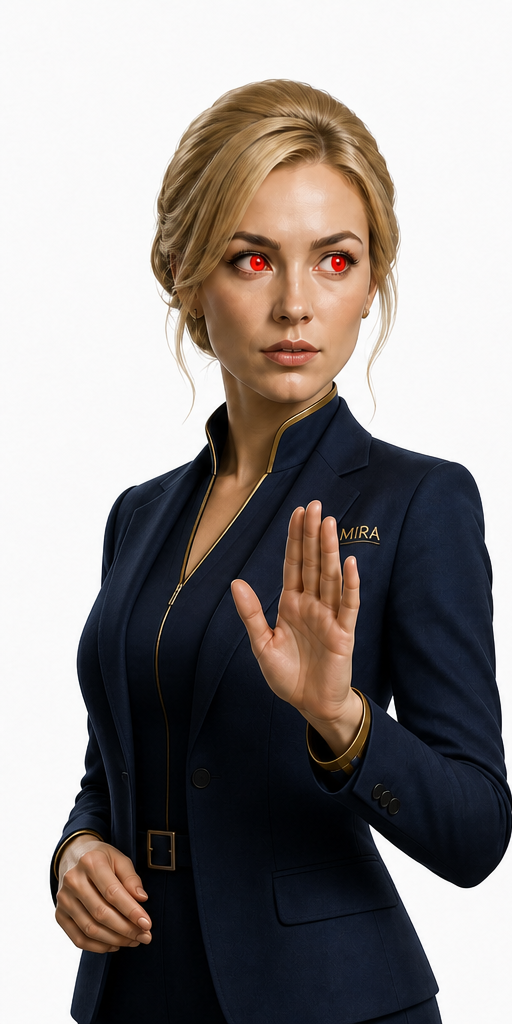
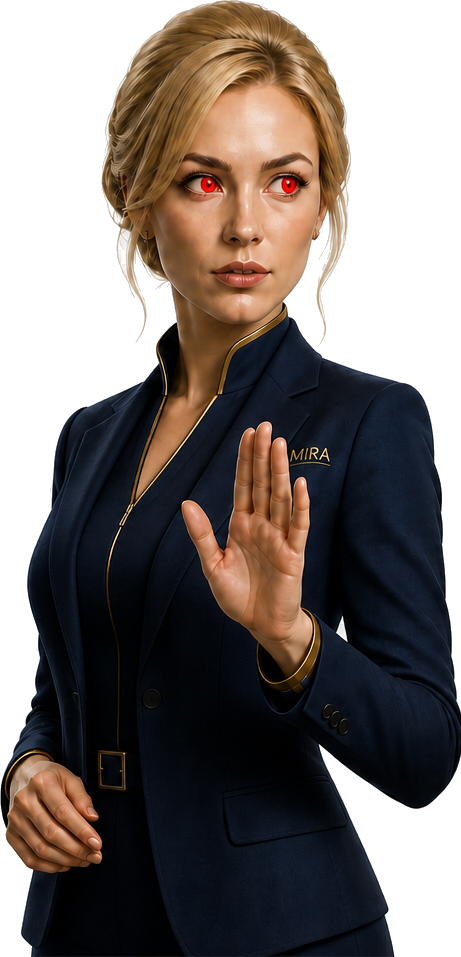
feat: float Mira companion overlay

diff --git a/apps/web/src/styles.css b/apps/web/src/styles.css
@@ -6430,95 +6430,85 @@ textarea {
 }
 
 .mira-companion {
-  position: relative;
-  display: grid;
-  grid-template-columns: 1fr;
-  grid-template-rows: auto 220px auto;
-  align-items: start;
-  justify-self: start;
-  align-self: start;
-  width: min(246px, 100%);
-  min-height: 0;
-  gap: 10px;
-  margin: 0 0 18px;
-  padding: 14px 14px 12px;
-  overflow: hidden;
-  border: 1px solid rgba(203, 215, 232, 0.95);
-  border-radius: 18px;
-  background: #ffffff;
-  box-shadow: 0 10px 26px rgba(16, 35, 63, 0.08);
+  position: fixed;
+  left: clamp(204px, calc(18vw - 26px), 262px);
+  bottom: clamp(14px, 5vh, 52px);
+  z-index: 40;
+  width: clamp(150px, 13vw, 220px);
+  height: clamp(276px, 48vh, 450px);
+  pointer-events: none;
+  perspective: 900px;
+  filter: drop-shadow(0 24px 20px rgba(5, 16, 31, 0.24));
 }
 
-.mira-companion__copy,
-.mira-companion__figure,
-.mira-companion__state {
-  position: relative;
-  z-index: 1;
-}
-
-.mira-companion__eyebrow {
-  display: inline-flex;
-  padding: 4px 8px;
-  border: 1px solid #e9bb57;
-  border-radius: 999px;
-  color: #996615;
-  font-size: 11px;
-  font-weight: 900;
-  letter-spacing: 0.14em;
-}
-
-.mira-companion h2 {
-  margin: 7px 0 3px;
-  color: #10233f;
-  font-size: 18px;
-}
-
-.mira-companion p {
-  margin: 0;
-  color: #62738a;
-  font-size: 12px;
+.mira-companion__halo {
+  position: absolute;
+  left: 15%;
+  right: 15%;
+  bottom: 2%;
+  height: 22%;
+  border-radius: 50%;
+  background: radial-gradient(ellipse, rgba(214, 166, 45, 0.3), rgba(214, 166, 45, 0) 68%);
+  filter: blur(8px);
+  transform: translateZ(-40px);
+  animation: mira-halo-pulse 4.6s ease-in-out infinite;
 }
 
 .mira-companion__figure {
+  position: absolute;
+  inset: 0;
   display: grid;
   place-items: end center;
   width: 100%;
-  height: 220px;
-  overflow: hidden;
-  border-radius: 14px;
-  background: #fff;
-  box-shadow: 0 8px 20px rgba(16, 35, 63, 0.1);
+  height: 100%;
+  overflow: visible;
+  transform-style: preserve-3d;
+  transform: perspective(900px) rotateY(-7deg) translateZ(0);
+  animation: mira-presence 5.8s ease-in-out infinite;
 }
 
 .mira-companion__frame {
   grid-area: 1 / 1;
   width: 100%;
   height: 100%;
-  object-fit: cover;
-  object-position: center 26%;
+  object-fit: contain;
+  object-position: center bottom;
   opacity: 0;
-  transform: translateY(3px) scale(0.985);
-  transition: opacity 550ms ease, transform 550ms ease;
+  transform: translateY(8px) scale(0.96) rotateY(4deg);
+  transition: opacity 700ms ease, transform 700ms ease;
 }
 
 .mira-companion--away .mira-companion__frame--away,
 .mira-companion--road .mira-companion__frame--road,
 .mira-companion--home .mira-companion__frame--home {
   opacity: 1;
-  transform: translateY(0) scale(1);
+  transform: translateY(0) scale(1) rotateY(0deg);
   animation: mira-frame-breathe 5.2s ease-in-out infinite;
 }
 
-.mira-companion__state {
+.mira-companion__badge {
+  position: absolute;
+  left: 50%;
+  bottom: -2px;
   display: inline-flex;
   align-items: center;
   gap: 7px;
-  justify-self: start;
-  margin: 0;
-  color: #46617f;
+  padding: 7px 10px;
+  border: 1px solid rgba(219, 182, 91, 0.65);
+  border-radius: 999px;
+  color: #10233f;
+  background: rgba(255, 255, 255, 0.9);
+  box-shadow: 0 8px 20px rgba(16, 35, 63, 0.12);
+  backdrop-filter: blur(8px);
   font-size: 12px;
   font-weight: 800;
   white-space: nowrap;
+  transform: translateX(-50%);
+}
+
+.mira-companion__badge strong {
+  color: #996615;
+  letter-spacing: 0.12em;
 }
 
 .mira-companion__state-dot {
@@ -6544,27 +6534,29 @@ textarea {
   50% { transform: translateY(-2px) scale(1.01); }
 }
 
+@keyframes mira-presence {
+  0%, 100% { transform: perspective(900px) rotateY(-7deg) translate3d(0, 0, 0); }
+  50% { transform: perspective(900px) rotateY(5deg) translate3d(4px, -8px, 22px); }
+}
+
+@keyframes mira-halo-pulse {
+  0%, 100% { opacity: 0.5; transform: scale(0.92); }
+  50% { opacity: 0.9; transform: scale(1.08); }
+}
+
 @media (prefers-reduced-motion: reduce) {
+  .mira-companion__figure,
+  .mira-companion__halo,
   .mira-companion__frame { animation: none !important; }
 }
 
 @media (max-width: 760px) {
   .mira-companion {
-    grid-template-columns: minmax(0, 1fr) 128px;
-    grid-template-rows: auto auto;
-    align-items: center;
-    width: 100%;
-    padding: 14px;
-  }
-
-  .mira-companion__figure {
-    width: 128px;
-    height: 116px;
-  }
-
-  .mira-companion__state {
-    grid-column: 1 / -1;
-    justify-self: start;
+    left: auto;
+    right: 10px;
+    bottom: 12px;
+    width: 132px;
+    height: 232px;
   }
 }
 

diff --git a/apps/web/src/presentation/components/common/MiraCompanion.tsx b/apps/web/src/presentation/components/common/MiraCompanion.tsx
@@ -17,23 +17,21 @@ export function MiraCompanion() {
   }, []);
 
   const activeState = STATES[stateIndex];
+  const stateLabel = activeState === "away" ? "Away" : activeState === "road" ? "On the road" : "At home";
 
   return (
-    <section className={`mira-companion mira-companion--${activeState}`} aria-label="MIRA visual companion">
-      <div className="mira-companion__copy">
-        <span className="mira-companion__eyebrow">MIRA</span>
-        <h2>Operations companion</h2>
-        <p>Present on the dashboard while you work.</p>
-      </div>
+    <aside className={`mira-companion mira-companion--${activeState}`} aria-label="MIRA visual companion">
+      <span className="mira-companion__halo" aria-hidden="true" />
       <div className="mira-companion__figure" aria-hidden="true">
         <img className="mira-companion__frame mira-companion__frame--away" src="/mira/mira-away.png" alt="" />
         <img className="mira-companion__frame mira-companion__frame--road" src="/mira/mira-road.png" alt="" />
         <img className="mira-companion__frame mira-companion__frame--home" src="/mira/mira-home.png" alt="" />
       </div>
-      <div className="mira-companion__state" aria-live="polite">
+      <div className="mira-companion__badge" aria-live="polite">
         <span className="mira-companion__state-dot" />
-        {activeState === "away" ? "Away" : activeState === "road" ? "On the road" : "At home"}
+        <strong>MIRA</strong>
+        <span>{stateLabel}</span>
       </div>
-    </section>
+    </aside>
   );
 }
